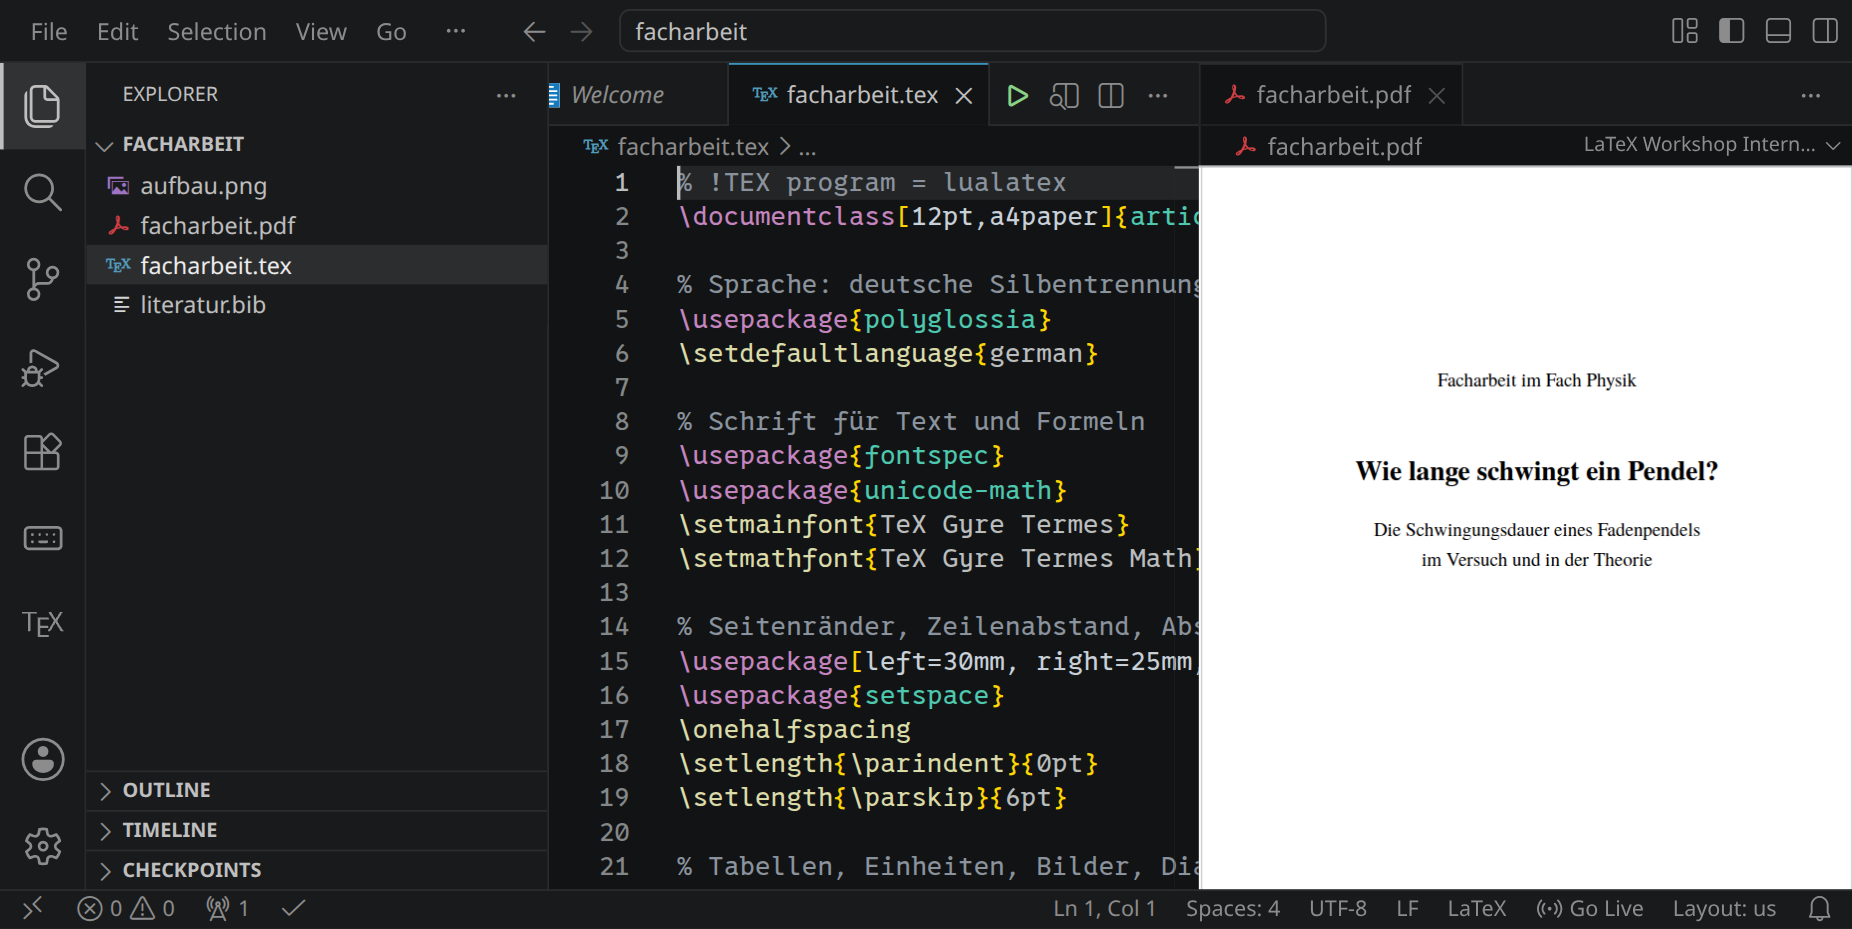
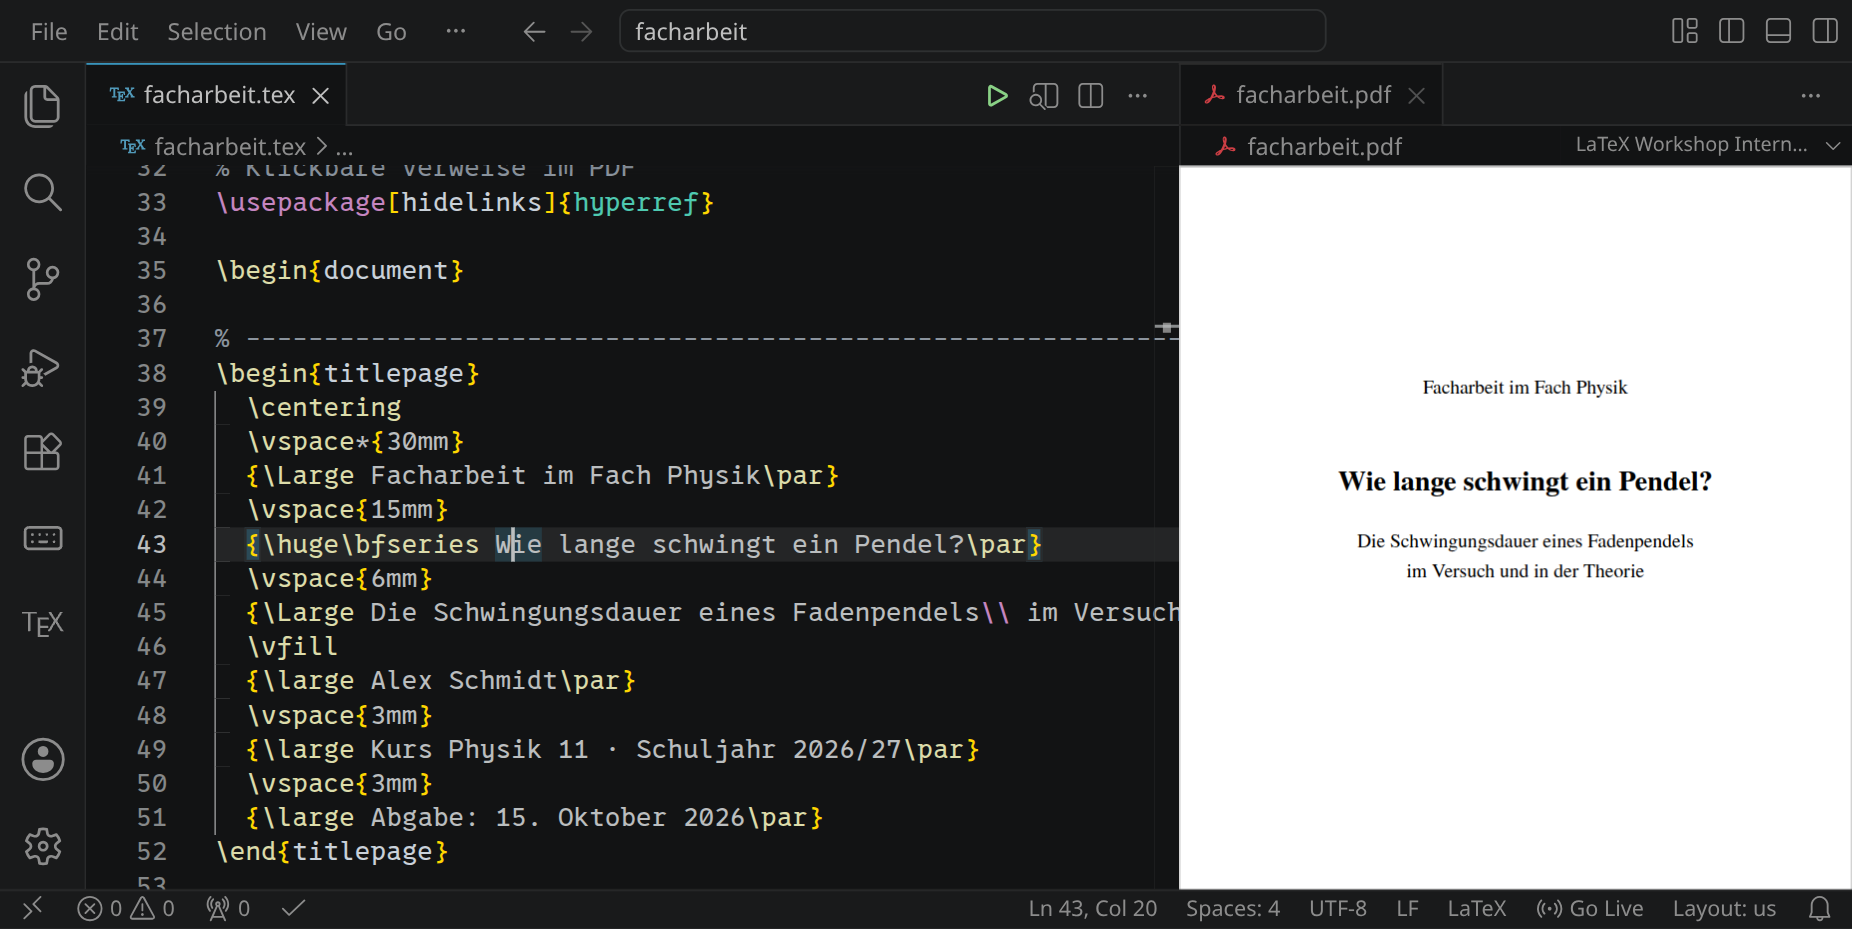
LaTeX teaser without the sidebar, the source wider than the PDF, the cursor in the title; teacher guide pictures taken again after the CSS change

diff --git a/src/content/latex/latex.md b/src/content/latex/latex.md
@@ -707,7 +707,26 @@ wait-for-file-newer: facharbeit/facharbeit.pdf <- facharbeit/facharbeit.tex
 sleep: 3
 press: Control+Alt+V
 wait-for-text: Facharbeit im Fach Physik
-move-mouse: selector:.editor-group-container .monaco-editor .view-lines
+hide-left-sidebar
+# Der Quelltext breiter als das PDF, der Cursor im Titel, den das PDF zeigt
+press: Control+1
+press: Control+Shift+P
+wait-for-input-value: >
+type: View: Increase Editor Width
+sleep: 1
+press: Enter
+sleep: 0.5
+press: Control+Shift+P
+wait-for-input-value: >
+type: View: Increase Editor Width
+sleep: 1
+press: Enter
+sleep: 0.5
+press: Control+G
+type: 43:20
+press: Enter
+sleep: 0.5
+move-mouse: selector:.part.statusbar
 sleep: 2
 check-task: erstes-pdf
 check-task: gliederung
